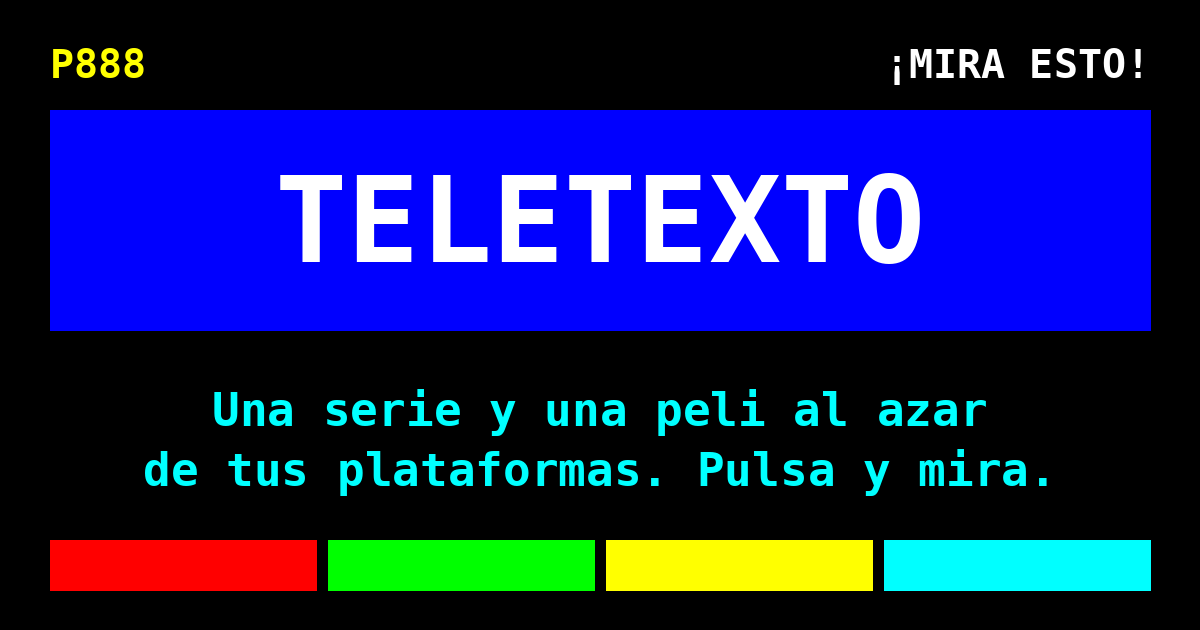
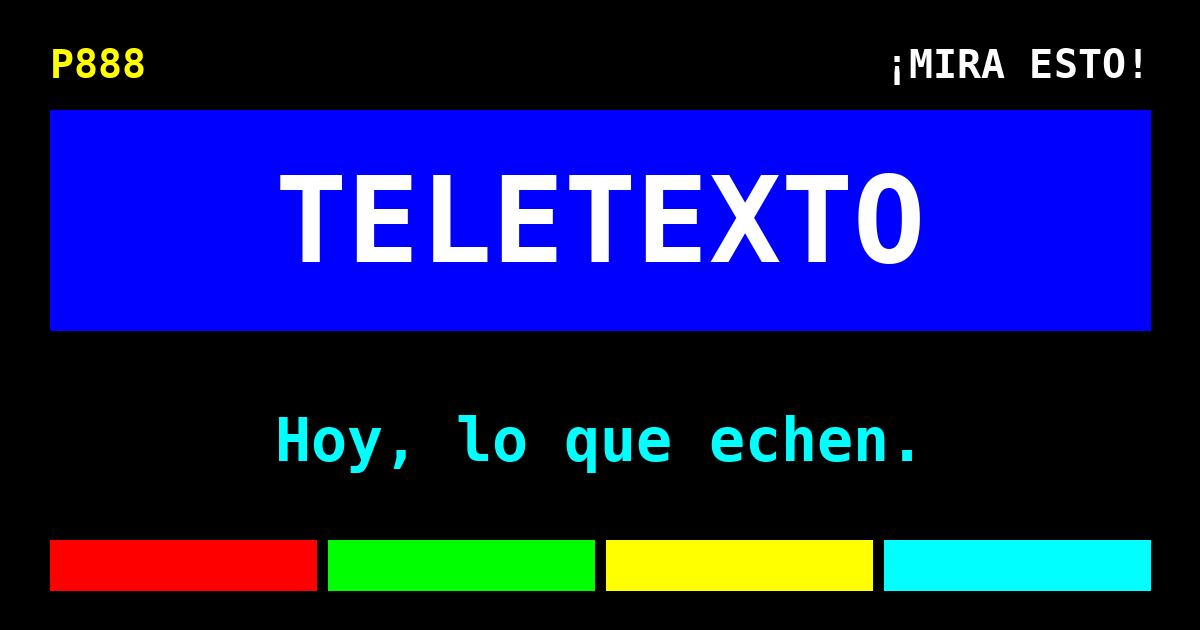
v6

Changed region(s): [[0.1233, 0.6032, 0.8633, 0.7841]]

diff --git a/index.html b/index.html
@@ -70,6 +70,11 @@ footer{margin-top:34px;font-size:.85rem;color:#aaa}
 input[type=range]{padding:0;border:0;background:none;accent-color:var(--y);margin-top:6px}
 .top{flex-wrap:wrap}
 select{font:inherit;color:var(--y);background:#000;border:2px solid #fff;padding:6px 10px;width:100%}
+.vc{display:flex;gap:10px;align-items:center;border:2px solid #fff;padding:6px;margin-top:8px}
+.vc img{width:46px}
+.vc .vt{flex:1}
+.vc .vn{min-width:2ch;text-align:right;color:#ff0}
+input.bad{border-color:#f00}
 </style>
 <link rel="preconnect" href="https://fonts.googleapis.com"><link href="https://fonts.googleapis.com/css2?family=VT323&display=swap" rel="stylesheet">
 </head>
@@ -93,17 +98,22 @@ select{font:inherit;color:var(--y);background:#000;border:2px solid #fff;padding
 <h2>Tipo</h2>
 <div class="chips" id="kinds"></div>
 <div id="dur" hidden><h2>Duración</h2><div><span class="sub">Peli de <b id="durv">sin límite</b></span><input type="range" id="durr" min="60" max="240" step="10" value="240"></div></div>
+<h2>Años</h2>
+<input id="yr" placeholder="1955-1998" inputmode="numeric" autocomplete="off">
+<div class="chips" id="yrs" style="margin-top:8px"><button class="chip" data-y="-1979">Clásicos</button><button class="chip" data-y="1980-1989">80s</button><button class="chip" data-y="1990-1999">90s</button><button class="chip" data-y="2000-2009">2000s</button><button class="chip" data-y="2010-2019">2010s</button><button class="chip" data-y="2020-">Recientes</button><button class="chip" data-y="">✖</button></div>
+<p class="sub" style="margin:6px 0 0">Escribe un tramo (1955-1998), un año o «1990-» para «desde 1990».</p>
 <h2>Me apetece…</h2>
 <div class="chips" id="cats"></div>
 <p class="sub" style="margin:6px 0 0">Sin marcar = cualquier cosa. Si marcas varias, saco una al azar.</p>
 <button class="main" id="surprise" disabled>▶ ¡Pulsa y mira!</button>
+<div class="row"><button class="sec" id="vote" disabled>🗳 Noche en grupo</button><label class="sub">¿Cuántos votáis? <select id="nv" style="width:auto"><option>2</option><option>3</option><option>4</option><option>5</option><option>6</option><option>7</option><option>8</option></select></label></div>
 
 <h2>O busca una serie</h2>
 <div class="row" style="margin-top:0"><input id="q" placeholder="Nombre de la serie"><button class="sec" id="go">Buscar</button></div>
 <div class="res" id="res"></div>
 
-<div id="out" aria-live="polite"><div id="o-tv"></div><div id="o-movie"></div></div>
-<details><summary>Episodios vistos</summary><div class="row"><button class="sec" id="clr">Borrar vistos</button></div></details>
+<div id="out" aria-live="polite"><div id="o-tv"></div><div id="o-movie"></div><div id="o-vote"></div></div>
+<details><summary>Mis listas</summary><p class="sub" id="lc"></p><div class="row"><button class="sec" id="clr">Borrar episodios vistos</button><button class="sec" id="clrh">Borrar descartados</button></div></details>
 
 <footer>
 <p><a href="https://www.themoviedb.org" target="_blank" rel="noopener"><img src="https://www.themoviedb.org/assets/2/v4/logos/v2/blue_short-8e7b30f73a4020692ccca9c88bafe5dcb6f8a62a4c6bc55cd9ba82bb2cd95f6c.svg" alt="TMDB" height="14" onerror="this.replaceWith('TMDB')"></a></p>
@@ -124,9 +134,9 @@ const rnd=a=>a[Math.floor(Math.random()*a.length)];
 const ld=(k,f)=>{try{const v=localStorage.getItem(k);return v?JSON.parse(v):f}catch(e){return f}};
 const sv=(k,v)=>{try{localStorage.setItem(k,JSON.stringify(v))}catch(e){}};
 // --- Ajustes para publicar ---
-const PROXY='https://teletexto-api.mikytak.workers.dev';  // URL de tu Worker de Cloudflare, sin / al final. Si la pones, la clave ya no hace falta.
-const EMBED_KEY='';  // Clave dentro del código. Bórrala (deja '') cuando uses PROXY.
-let KEY=ld('qvh-key','')||EMBED_KEY,seen=ld('qvh-seen',{}),ids={},selP=new Set(),selK=new Set(['tv','movie']),last={},selC=new Set(),dropFallback=false,dropNet=0;
+const PROXY='';  // URL de tu Worker de Cloudflare, sin / al final. Si la pones, la clave ya no hace falta.
+const EMBED_KEY='2c6005f592032977700dd12ba5929be7';  // Clave dentro del código. Bórrala (deja '') cuando uses PROXY.
+let KEY=ld('qvh-key','')||EMBED_KEY,seen=ld('qvh-seen',{}),hid=ld('qvh-hid',{}),ids={},selP=new Set(),selK=new Set(['tv','movie']),last={},selC=new Set(),dropFallback=false,dropNet=0;
 
 async function api(path,params={}){
   const u=new URL((PROXY||'https://api.themoviedb.org')+'/3'+path);
@@ -192,12 +202,15 @@ async function init(){
     {const all=Object.keys(P).filter(k=>ids[k].length),sv0=keepSel&&pf&&pf.p?pf.p.filter(k=>all.includes(k)):[];selP=new Set(sv0.length?sv0:all);keepSel=false}
     const miss=Object.keys(P).filter(k=>!ids[k].length).map(k=>P[k][0]);
     $('cfgMsg').textContent='Listo.'+(miss.length?` No he encontrado en ${CT[REG]}: ${miss.join(', ')}.`:'')+(dropFallback?' Dropout no consta en '+CT[REG]+' en TMDB: uso su catálogo de EE. UU./Reino Unido/Canadá (suele ser muy parecido).':'')+(dropNet?' Dropout: lo busco por su canal en TMDB (solo series, sin comprobar disponibilidad en España).':'');
-    $('cfg').open=false;$('surprise').disabled=false;chips();
+    $('cfg').open=false;$('surprise').disabled=false;$('vote').disabled=false;chips();
   }catch(e){$('cfgMsg').textContent='No he podido conectar con TMDB: revisa la clave ('+e.message+').';}
 }
 $('saveKey').onclick=()=>{KEY=$('key').value.trim();sv('qvh-key',KEY);init()};
 $('key').value=KEY;
 
+function yrs(){const v=$('yr').value.trim();$('yr').classList.remove('bad');if(!v)return null;let a,b,m=v.match(/^(\d{4})?\s*[-–—]\s*(\d{4})?$/);if(m&&(m[1]||m[2])){a=m[1];b=m[2]}else if(/^\d{4}$/.test(v)){a=b=v}else{$('yr').classList.add('bad');return null}if(a&&b&&+a>+b){[a,b]=[b,a]}return[a||null,b||null]}
+const p404=l=>`<div class="ep">P404<small>PÁGINA NO ENCONTRADA</small></div><p class="msg">${l}: nada con estos filtros. Prueba con más plataformas, otra categoría u otro tramo de años.</p>`;
+const SITE='https://mikytak.github.io/teletexto/';
 async function catParams(c,t){
   const d=C[c];
   if(d.dnd){if(t!=='tv')return null;const ks=(await Promise.all(['dungeons and dragons','tabletop role-playing game','role playing game'].map(kw))).filter(Boolean);return ks.length?{with_keywords:ks.join('|')}:{__fb:1}}
@@ -212,12 +225,13 @@ async function query(pl,type,cp){
     const base=net?{with_networks:dropNet,sort_by:'popularity.desc',language:'es-ES',...cp}
       :{with_watch_providers:ids[pl].join('|'),watch_region:rg,with_watch_monetization_types:FREE.includes(pl)?'free|ads|flatrate':'flatrate',sort_by:'popularity.desc','vote_count.gte':dropFallback&&pl==='dropout'?1:30,language:'es-ES',...cp};
     if(type==='movie'&&durOK())base['with_runtime.lte']=$('durr').value;
+    const y=yrs();if(y){const yk=type==='movie'?'primary_release_date':'first_air_date';if(y[0])base[yk+'.gte']=y[0]+'-01-01';if(y[1])base[yk+'.lte']=y[1]+'-12-31'}
     const r=await api('/discover/'+type,{...base,page:1});
     if(r.results.length)return{f:r,base};
   }
   return null;
 }
-async function pick(type){
+async function pick(type,ex=new Set()){
   for(const c of selC.size?shuf([...selC]):[null]){
     const cp=c?await catParams(c,type):{};
     if(cp===null)continue;
@@ -225,13 +239,15 @@ async function pick(type){
     if(!(dnd&&cp.__fb))for(const pl of dnd?['dropout']:shuf(selP)){
       if(!(ids[pl]||[]).length)continue;
       const q=await query(pl,type,cp);if(!q)continue;
-      const pg=1+Math.floor(Math.random()*Math.min(q.f.total_pages,500));
-      const d=pg===1?q.f:await api('/discover/'+type,{...q.base,page:pg});
-      const res=d.results.length?d.results:q.f.results;
-      const fresh=res.filter(x=>!seen[type+'-'+x.id]);
-      return{it:rnd(fresh.length?fresh:res),src:pl};
+      const tp=Math.min(q.f.total_pages,500);
+      for(let a=0;a<3;a++){
+        const pg=1+Math.floor(Math.random()*tp);
+        const d=pg===1?q.f:await api('/discover/'+type,{...q.base,page:pg});
+        const fresh=d.results.filter(x=>!hid[type+'-'+x.id]&&!seen[type+'-'+x.id]&&!ex.has(type+'-'+x.id));
+        if(fresh.length)return{it:rnd(fresh),src:pl};
+      }
     }
-    if(dnd){const s=await api('/search/tv',{query:'Dimension 20',language:'es-ES'});const l=s.results.filter(x=>/dimension 20|adventuring party/i.test(x.name));if(l.length)return{it:rnd(l),src:'dropout'}}
+    if(dnd){const s=await api('/search/tv',{query:'Dimension 20',language:'es-ES'});const l=s.results.filter(x=>/dimension 20|adventuring party/i.test(x.name)&&!hid['tv-'+x.id]);if(l.length)return{it:rnd(l),src:'dropout'}}
   }
   return null;
 }
@@ -239,11 +255,12 @@ async function draw(type){
   const o=$('o-'+type);o.innerHTML='<p class="msg">Sorteando '+(type==='tv'?'serie':'peli')+'…</p>';
   try{
     const r=await pick(type);
-    if(!r){o.innerHTML='<p class="msg">'+(type==='tv'?'Series':'Pelis')+': nada con estos filtros. Prueba con más plataformas u otra categoría.</p>';return}
+    if(!r){o.innerHTML=p404(type==='tv'?'Series':'Pelis');return}
     await show(type,r.it,r.src);
   }catch(e){o.innerHTML='<p class="msg">Error: '+esc(e.message)+'</p>'}
 }
 async function surprise(){
+  $('o-vote').innerHTML='';vt=null;
   if(!selP.size||!selK.size){$('o-tv').innerHTML='<p class="msg">Activa al menos una plataforma y un tipo.</p>';$('o-movie').innerHTML='';return}
   for(const t of['tv','movie'])if(!selK.has(t))$('o-'+t).innerHTML='';
   await Promise.all([...selK].map(draw));
@@ -254,9 +271,10 @@ async function show(type,it,src){
   last[type]={it,src};
   const title=it.title||it.name;
   let ep=null,note='';
-  const [prov,det]=await Promise.all([
+  const [prov,det,vid]=await Promise.all([
     api(`/${type}/${it.id}/watch/providers`).catch(()=>null),
-    type==='tv'?api('/tv/'+it.id,{language:'es-ES'}).catch(()=>null):api('/movie/'+it.id,{language:'es-ES'}).catch(()=>null)]);
+    type==='tv'?api('/tv/'+it.id,{language:'es-ES'}).catch(()=>null):api('/movie/'+it.id,{language:'es-ES'}).catch(()=>null),
+    api(`/${type}/${it.id}/videos`,{language:'es-ES',include_video_language:'es,en,null'}).catch(()=>null)]);
   const es=prov&&prov.results&&prov.results[REG];
   const names=es?[...new Set([...(es.flatrate||[]),...(es.free||[]),...(es.ads||[])].map(p=>p.provider_name))]:[];
   if(src==='dropout'&&dropNet&&!names.length)names.push('Dropout (según su canal en TMDB)');
@@ -268,36 +286,74 @@ async function show(type,it,src){
     else note='¡Te lo has visto todo! Borra los vistos para empezar de nuevo.';
   }
   const year=(it.release_date||it.first_air_date||'').slice(0,4);
+  const vs=((vid&&vid.results)||[]).filter(v=>v.site==='YouTube'),tr=vs.find(v=>v.type==='Trailer'&&v.official)||vs.find(v=>v.type==='Trailer')||vs.find(v=>v.type==='Teaser');
+  const where=(es&&es.link)||`https://www.themoviedb.org/${type}/${it.id}/watch?locale=${REG}`;
+  const plat=names.find(n=>Object.values(P).some(v=>v[2].test(n)))||names[0]||'';
   const mins=type==='movie'&&det&&det.runtime?' · '+det.runtime+' min':'';
   $('o-'+type).innerHTML=`<div class="card">${it.poster_path?`<img src="https://image.tmdb.org/t/p/w342${it.poster_path}" alt="">`:''}<div class="b">
     <h3>${esc(title)}</h3><small>${type==='tv'?'Serie':'Peli'}${year?' · '+year:''}${mins}${it.vote_average?' · ★ '+it.vote_average.toFixed(1):''}</small>
     <p><small>${names.length?'En '+CT[REG]+': '+esc(names.join(', ')):'No aparece en streaming (suscripción) en '+CT[REG]+' ahora mismo.'}</small></p>
     ${ep?`<div class="ep">T${ep[0]} · E${ep[1]}${ep[2]?`<small>${esc(ep[2])}</small>`:''}</div>${ep[3]?`<p class="sub">${esc(ep[3])}</p>`:''}`:`<p class="sub">${esc(it.overview||'')}</p>`}
     ${note?`<p class="msg">${note}</p>`:''}
-    <div class="row">${type==='tv'?`<button class="sec" data-a="again" data-t="${type}">🔁 Otro episodio</button>`:''}<button class="sec" data-a="seen" data-t="${type}">✅ Visto</button><button class="sec" data-a="next" data-t="${type}">🎲 Otra ${type==='tv'?'serie':'peli'}</button></div></div></div>`;
-  last[type].ep=ep;
+    <div class="row">${type==='tv'?`<button class="sec" data-a="again" data-t="${type}">🔁 Otro episodio</button><button class="sec" data-a="epseen" data-t="${type}">✅ Episodio visto</button>`:''}<button class="sec" data-a="sawit" data-t="${type}">👁 Ya la vi</button><button class="sec" data-a="skip" data-t="${type}">🚫 No me interesa</button><button class="sec" data-a="next" data-t="${type}">🎲 Otra ${type==='tv'?'serie':'peli'}</button><button class="sec" data-a="where" data-t="${type}">📍 Dónde verlo</button>${tr?`<button class="sec" data-a="trailer" data-t="${type}">▶ Tráiler</button>`:''}<button class="sec" data-a="share" data-t="${type}">📤 Compartir</button></div></div></div>`;
+  Object.assign(last[type],{ep,where,trailer:tr?'https://www.youtube.com/watch?v='+tr.key:'',share:'📺 Esta noche: '+title+(year?' ('+year+')':'')+(ep?' — T'+ep[0]+'·E'+ep[1]+(ep[2]?' «'+ep[2]+'»':''):'')+(plat?' · '+plat:'')});
 }
+let vt=null;
+async function shareIt(l,b){
+  try{if(navigator.share){await navigator.share({text:l.share,url:SITE});return}}catch(e){if(e&&e.name==='AbortError')return}
+  try{await navigator.clipboard.writeText(l.share+'\n'+SITE);const o=b.textContent;b.textContent='¡Copiado!';setTimeout(()=>b.textContent=o,1500)}catch(e){prompt('Copia y pega:',l.share+'\n'+SITE)}
+}
+async function startVote(){
+  if(!selP.size||!selK.size){$('o-tv').innerHTML='<p class="msg">Activa al menos una plataforma y un tipo.</p>';return}
+  $('o-tv').innerHTML='';$('o-movie').innerHTML='';
+  const o=$('o-vote');o.innerHTML='<p class="msg">Sorteando opciones…</p>';
+  const per=selK.size===2?2:4,c=[],ex=new Set();
+  try{for(const k of selK){let g=0;for(let i=0;i<8&&g<per;i++){const r=await pick(k,ex);if(!r)break;const key=k+'-'+r.it.id;if(ex.has(key))continue;ex.add(key);c.push({type:k,it:r.it,src:r.src});g++}}}
+  catch(e){o.innerHTML='<p class="msg">Error: '+esc(e.message)+'</p>';return}
+  if(c.length<2){o.innerHTML=p404('Votación');return}
+  vt={c,v:c.map(()=>0),n:+$('nv').value,tot:0,done:false};renderVote();
+}
+function renderVote(){
+  $('o-vote').innerHTML='<div class="ep">VOTACIÓN<small>Pasaos el móvil: cada persona toca su opción.</small></div>'+vt.c.map((x,i)=>{const it=x.it,y=(it.release_date||it.first_air_date||'').slice(0,4);return `<div class="vc">${it.poster_path?`<img src="https://image.tmdb.org/t/p/w154${it.poster_path}" alt="">`:''}<div class="vt"><b>${esc(it.title||it.name)}</b><br><small>${x.type==='tv'?'Serie':'Peli'}${y?' · '+y:''}</small></div><span class="vn">${vt.v[i]}</span><button class="sec" data-v="${i}" ${vt.done?'disabled':''}>+1</button></div>`}).join('')+`<p class="msg">${vt.done?'':'Votos: '+vt.tot+'/'+vt.n}</p><div class="row"><button class="sec" data-a="vreset">↺ Reiniciar votos</button><button class="sec" data-a="vnew">🗳 Nueva votación</button></div><div id="vwin"></div>`;
+}
+function endVote(){
+  vt.done=true;const m=Math.max(...vt.v),w=vt.c.map((x,i)=>i).filter(i=>vt.v[i]===m),x=vt.c[rnd(w)];
+  renderVote();
+  $('vwin').innerHTML='<div class="ep">🏆 '+esc(x.it.title||x.it.name)+(w.length>1?'<small>Empate: decide el azar</small>':'')+'</div>';
+  show(x.type,x.it,x.src);
+}
+$('vote').onclick=startVote;
+function updLists(){$('lc').textContent=Object.keys(hid).length+' descartados · '+Object.keys(seen).filter(k=>/^\d+-\d+-\d+$/.test(k)).length+' episodios vistos'}
 $('out').onclick=e=>{
+  const v=e.target.closest('[data-v]');
+  if(v){if(vt&&!vt.done){vt.v[+v.dataset.v]++;vt.tot++;vt.tot>=vt.n?endVote():renderVote()}return}
   const b=e.target.closest('[data-a]');if(!b)return;
-  const t=b.dataset.t,l=last[t];if(!l)return;const{it,ep,src}=l,a=b.dataset.a;
+  const a=b.dataset.a;
+  if(a==='vreset'){if(!vt)return;vt.v.fill(0);vt.tot=0;vt.done=false;$('o-tv').innerHTML='';$('o-movie').innerHTML='';renderVote();return}
+  if(a==='vnew'){startVote();return}
+  const t=b.dataset.t,l=last[t];if(!l)return;const{it,ep,src}=l,k=t+'-'+it.id;
   if(a==='again')show(t,it,src);
   else if(a==='next')draw(t);
-  else if(a==='seen'){seen[ep?`${it.id}-${ep[0]}-${ep[1]}`:`${t}-${it.id}`]=1;sv('qvh-seen',seen);t==='tv'?show(t,it,src):draw(t)}
+  else if(a==='epseen'){if(ep){seen[`${it.id}-${ep[0]}-${ep[1]}`]=1;sv('qvh-seen',seen);updLists()}show(t,it,src)}
+  else if(a==='sawit'||a==='skip'){hid[k]=a;sv('qvh-hid',hid);updLists();draw(t)}
+  else if(a==='where')window.open(l.where,'_blank','noopener');
+  else if(a==='trailer')window.open(l.trailer,'_blank','noopener');
+  else if(a==='share')shareIt(l,b);
 };
 async function search(){
   const q=$('q').value.trim();if(!q)return;
   try{
     const r=await api('/search/tv',{query:q,language:'es-ES'});
     $('res').innerHTML=r.results.slice(0,6).map((x,i)=>`<button data-i="${i}">${esc(x.name)} <small>${(x.first_air_date||'').slice(0,4)}</small></button>`).join('')||'<p class="msg">Sin resultados.</p>';
-    $('res').onclick=ev=>{const b=ev.target.closest('[data-i]');if(!b)return;$('res').innerHTML='';$('o-movie').innerHTML='';last.movie=null;show('tv',r.results[+b.dataset.i])};
+    $('res').onclick=ev=>{const b=ev.target.closest('[data-i]');if(!b)return;$('res').innerHTML='';$('o-movie').innerHTML='';$('o-vote').innerHTML='';vt=null;last.movie=null;show('tv',r.results[+b.dataset.i])};
   }catch(e){$('res').innerHTML='<p class="msg">Error: '+esc(e.message)+'</p>'}
 }
 $('go').onclick=search;$('q').onkeydown=e=>{if(e.key==='Enter')search()};
-$('clr').onclick=()=>{seen={};sv('qvh-seen',seen)};
+$('clr').onclick=()=>{seen={};sv('qvh-seen',seen);updLists()};$('clrh').onclick=()=>{hid={};sv('qvh-hid',hid);updLists()};
 const tick=()=>{const d=new Date();$('clk').textContent=d.toLocaleDateString('es-ES',{weekday:'short',day:'2-digit',month:'short'}).toUpperCase().replace(/\./g,'')+' '+d.toLocaleTimeString('es-ES',{hour:'2-digit',minute:'2-digit',second:'2-digit'})};tick();setInterval(tick,1000);
 $('fr').onclick=()=>$('surprise').click();
 $('fg').onclick=()=>{const b=document.querySelector('[data-a="again"]')||document.querySelector('[data-a="next"]');if(b)b.click()};
-$('fy').onclick=()=>{const b=document.querySelector('[data-a="seen"]');if(b)b.click()};
+$('fy').onclick=()=>{const b=(document.querySelector('[data-a="epseen"]')||document.querySelector('[data-a="sawit"]'));if(b)b.click()};
 $('fc').onclick=()=>{$('q').focus();$('q').scrollIntoView({block:'center'})};
 const TAGS=['Sin scroll infinito: el azar decide por ti.','Página 888: el único canal sin anuncios de pizzas.','Deja de buscar. Empieza a ver.','Un episodio al azar, como los de antes: lo que echen.','Tu mando está de vacaciones. Pulsa el botón rojo.','Teletexto de verdad: cero pestañas, cero dudas.'];
 const PH=['¡RESPONDA OTRA VEZ!','COMODÍN DEL PÚBLICO','EL ROSCO FINAL','PREGUNTA DEL MILLÓN','CARTA DE AJUSTE','VOLVEMOS TRAS LA PUBLI','CINE DE BARRIO','SESIÓN DE TARDE','EL TIEMPO: SOFÁ Y MANTA','¡DALE AL BOTÓN ROJO!','SIN CORTES PUBLICITARIOS','TELEDIARIO 2.ª EDICIÓN','ESPECIAL SOBREMESA','¡ESTAMOS EN DIRECTO!'];
@@ -311,9 +367,11 @@ let REG=ld('qvh-reg','ES'),keepSel=true;if(!CT[REG])REG='ES';
 $('reg').innerHTML=Object.entries(CT).map(([k,n])=>`<option value="${k}"${k===REG?' selected':''}>${n}</option>`).join('');
 $('ctry').textContent=CT[REG];
 $('reg').onchange=()=>{REG=$('reg').value;sv('qvh-reg',REG);$('ctry').textContent=CT[REG];keepSel=false;init()};
+$('yr').oninput=()=>{yrs();sp()};$('yrs').onclick=e=>{const b=e.target.closest('[data-y]');if(!b)return;$('yr').value=b.dataset.y;yrs();sp()};
+updLists();
 const pf=ld('qvh-prefs',null);
-if(pf){if(pf.k&&pf.k.length)selK=new Set(pf.k);if(pf.c)selC=new Set(pf.c.filter(x=>C[x]));if(pf.d){$('durr').value=pf.d;const v=+pf.d;$('durv').textContent=v>=240?'sin límite':'hasta '+v+' min'}}
-const sp=()=>sv('qvh-prefs',{p:Object.keys(ids).length?[...selP]:(pf&&pf.p)||[],k:[...selK],c:[...selC],d:$('durr').value});
+if(pf){if(pf.y)$('yr').value=pf.y;if(pf.k&&pf.k.length)selK=new Set(pf.k);if(pf.c)selC=new Set(pf.c.filter(x=>C[x]));if(pf.d){$('durr').value=pf.d;const v=+pf.d;$('durv').textContent=v>=240?'sin límite':'hasta '+v+' min'}}
+const sp=()=>sv('qvh-prefs',{p:Object.keys(ids).length?[...selP]:(pf&&pf.p)||[],k:[...selK],c:[...selC],d:$('durr').value,y:$('yr').value});
 if('serviceWorker' in navigator&&location.protocol.startsWith('http'))navigator.serviceWorker.register('sw.js').catch(()=>{});
 chips();init();
 </script>

diff --git a/404.html b/404.html
@@ -1,0 +1,11 @@
+<!DOCTYPE html>
+<html lang="es"><head><meta charset="utf-8"><meta name="viewport" content="width=device-width,initial-scale=1">
+<title>P404 · Teletexto</title>
+<link href="https://fonts.googleapis.com/css2?family=VT323&display=swap" rel="stylesheet">
+<style>body{margin:0;background:#000;color:#fff;font:24px/1.3 "VT323","Courier New",monospace;padding:16px;max-width:720px;margin:0 auto}
+.t{display:flex;justify-content:space-between;color:#ff0}h1{background:#00f;font-weight:400;font-size:3rem;margin:10px 0;padding:6px 10px}
+p{color:#0ff}a{display:inline-block;background:#f00;color:#fff;padding:6px 16px;text-decoration:none;font-size:1.5rem;margin-top:12px}</style></head>
+<body><div class="t"><span>P404</span><span>TELETEXTO</span></div>
+<h1>PÁGINA NO ENCONTRADA</h1>
+<p>Esta página no existe (o se la llevó la carta de ajuste).</p>
+<a href="https://mikytak.github.io/teletexto/">▶ VOLVER A LA P100</a></body></html>

diff --git a/README.md b/README.md
@@ -5,6 +5,8 @@ Una web con estética de teletexto que te sugiere **una serie (con episodio al a
 Plataformas: Netflix, Disney+, Prime Video, HBO Max, Dropout, Pluto TV, Filmin, Movistar Plus+, SkyShowtime, Apple TV+, RTVE Play y Crunchyroll.
 Filtros: plataforma, tipo (series / pelis), «me apetece…» (comedia, romance, drama, anime, dragones y mazmorras…) y duración máxima de la peli.
 
+- Botones para ver dónde está cada título, su tráiler y compartir el resultado; «Ya la vi» y «No me interesa» con lista que se puede borrar.
+- Filtro por años (por ejemplo 1955-1998) y modo votación para elegir en grupo.
 - Recuerda tus plataformas y categorías en tu navegador.
 - Se puede instalar en el móvil como app (añadir a pantalla de inicio).
 - No guarda datos de nadie.
